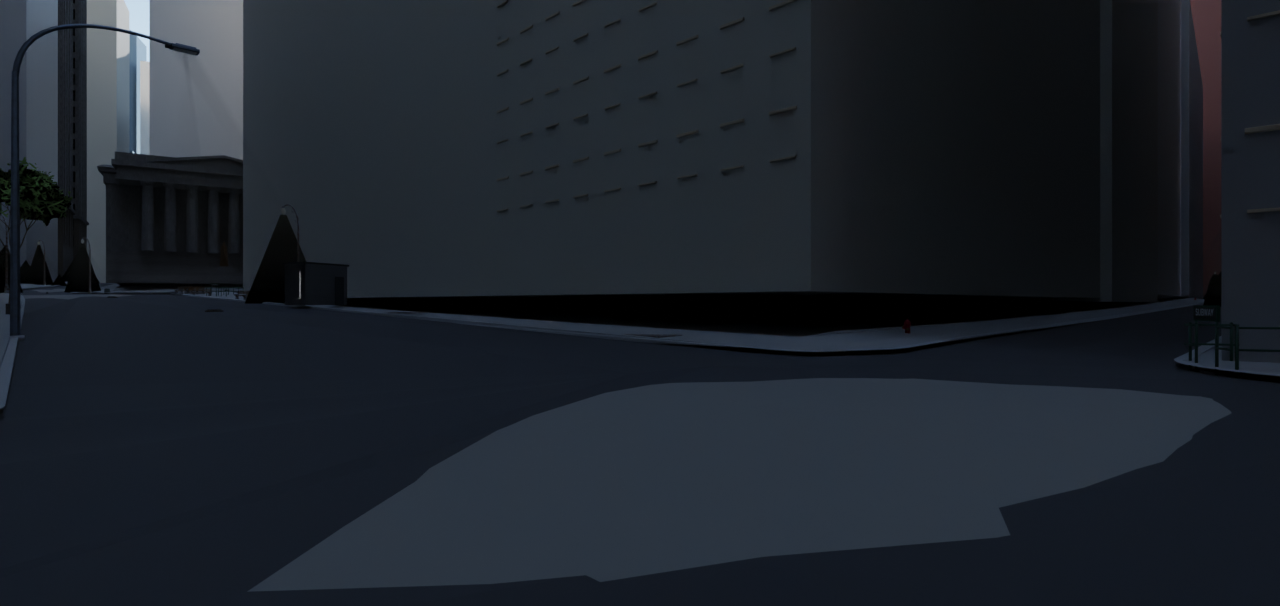
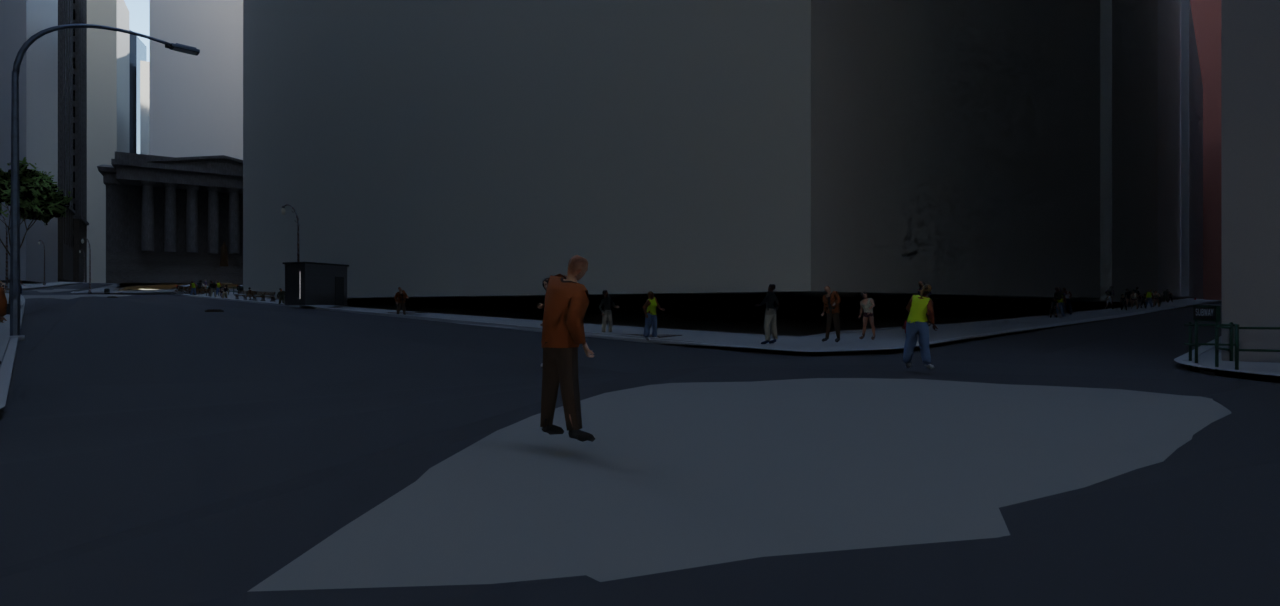
verify: 40 Wall Street - the sheet cannot show the building it is named after
Two measured faults meet in one frame.

I18: the subject's top is at 292 m, the camera 200.4 m away at a 5.66 m eye, so
seeing it needs 55.0 deg of elevation and the frame reaches 25.3.  The lens is
already at the 18 mm floor and the reference photograph's 1280x606 letterbox
cuts the vertical field to 50.7 deg, so a level axis reaches half what the
subject needs.  Thirteen landmark models are in the frame and none is
recognisably the one the sheet is named after.

I16 at its most extreme: mean luminance 0.147 against the photograph's 0.689,
a fifth as bright, with 25.4 % of the frame below 0.10.  The Sun is from EXIF
and correct - 16:27 on 3 October at 22.4 deg elevation puts a north-south
Manhattan canyon in near-total shadow.  The render is right about the light and
unusable as a comparison.

What it does contain is recorded too: 403 pedestrians and 81 vehicles reading as
a Financial District pavement at the end of the working day, and Federal Hall's
colonnade legible on the left.

Claude-Session: https://claude.ai/code/session_012rCzdfEp56Z5bDvSJLVsiQ

diff --git a/docs/verification/comparison/landmark_40_wall_street/assessment.md b/docs/verification/comparison/landmark_40_wall_street/assessment.md
@@ -14,6 +14,27 @@
 
 **Verdict — the lens rule now gets the tower's base and Federal Hall's colonnade into shot at 18 mm, and the crown the item exists to test is still above the top of the frame; the pairing is hopeless anyway, because the only photograph collected is a harbour panorama taken 1.5 km away**
 
+## Re-rendered 2026-09-07 — the sheet cannot show the building it is named after
+
+Two faults meet in this frame and both are measured rather than described.
+
+**The subject is above the frame (deviation I18).** 40 Wall Street's top stands at 292 m; the camera
+is 200.4 m away at an eye height of 5.66 m, so seeing it requires **55.0° of elevation** and the frame
+reaches **25.3°**. The lens is already at the 18 mm floor at a 90° horizontal, and the reference
+photograph's own 1280×606 letterbox cuts the vertical field to 50.7°, so a level axis reaches half
+what the subject needs. The frame shows the bases of the Wall Street canyon and 13 landmark models,
+and none of them is recognisably the building the sheet is named after.
+
+**And the exposure gap is at its most extreme here (I16).** Mean luminance **0.147 against the
+photograph's 0.689** — the render is a fifth as bright — with **25.4 % of the frame below 0.10**. The
+Sun is from EXIF and correct: 16:27 on 3 October, elevation 22.4°, which puts a north-south Manhattan
+canyon in near-total shadow with one wedge of late sun on the pavement. The render is right about the
+light and unusable as a comparison.
+
+What the frame does contain is worth recording: 403 pedestrians and 81 vehicles, a crowd along the
+kerb line reading as a Financial District pavement at the end of the working day, and Federal Hall's
+colonnade legible on the left.
+
 ## What matches
 
 * The lens rule fired and is stated on the sheet: 35 mm widened to the 18 mm floor because the 282 m tower stands 284 m above the lens only 200 m away, 55 deg above the horizon. That brought the tower's base, the street and Federal Hall into the frame where a 35 mm level axis had shown only a dark corner.
